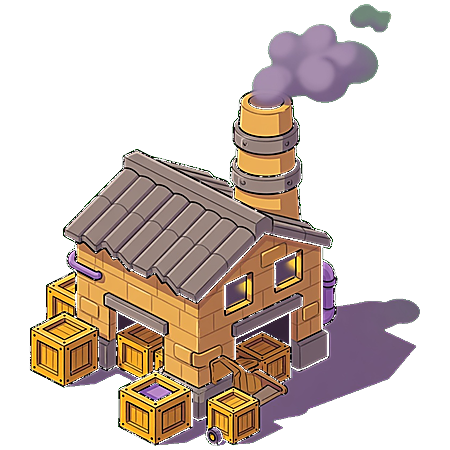
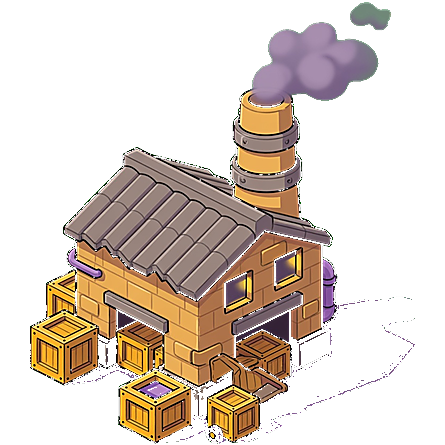
Land byer på hex-kortet: fjern platform + blød skygge
Fjerner lilla/grå diorama-platform i place-sprites, planter med sink
og diskret kontakt-skygge på græs i stedet for flyvende grøn tallerken.
Cache-bump v7.

diff --git a/js/worlddraw.js b/js/worlddraw.js
@@ -172,54 +172,53 @@ function drawFarmFields(ctx, d, dpr) {
 }
 
 /**
- * Place hub planted on ground (not floating).
- * Place-sprites er bottom-aligned i PNG; vi planter bunden i groundY + lille sink.
+ * Place hub planted on hex terrain (not floating diorama).
+ * Sprites uden indbygget platform; blød kontakt-skygge + sink i jorden.
  */
 export function drawPlaceHub(ctx, d, dpr, helpers) {
   const { lightenHex, drawSilhouette } = helpers;
   const type = d.type || 'town';
   const sprite = getPlaceSprite(type, d.spriteKey || null);
-  // Kompakt størrelse – store isometriske sprites “svæver” hvis de er for store
-  const size = d.r * 1.85;
+  // Lidt mindre end før – isometrisk hus på top-down hex
+  const size = d.r * 1.72;
   const connected = d._connected;
-  // Jordkontakt = hub-centrum (veje snapper hertil)
   const groundY = d.y;
   const gc = d.color || '#a8a29e';
 
-  // Solid jord-plade (tydelig base byen står på)
+  // Blød skygge der “klistrer” huset til hex-græs (ingen lilla ø-platform)
   ctx.beginPath();
-  ctx.ellipse(d.x, groundY + 1 * dpr, size * 0.48, size * 0.18, 0, 0, Math.PI * 2);
-  ctx.fillStyle = 'rgba(28, 25, 23, 0.22)';
+  ctx.ellipse(d.x + 2 * dpr, groundY + 3 * dpr, size * 0.34, size * 0.12, 0, 0, Math.PI * 2);
+  ctx.fillStyle = 'rgba(20, 18, 14, 0.28)';
   ctx.fill();
   ctx.beginPath();
-  ctx.ellipse(d.x, groundY, size * 0.4, size * 0.145, 0, 0, Math.PI * 2);
-  const sod = ctx.createRadialGradient(d.x - size * 0.08, groundY - size * 0.04, 0, d.x, groundY, size * 0.42);
-  sod.addColorStop(0, 'rgba(120, 140, 85, 0.55)');
-  sod.addColorStop(0.45, 'rgba(95, 110, 70, 0.4)');
-  sod.addColorStop(1, 'rgba(70, 80, 50, 0.05)');
+  ctx.ellipse(d.x, groundY + 1 * dpr, size * 0.28, size * 0.09, 0, 0, Math.PI * 2);
+  ctx.fillStyle = 'rgba(30, 28, 22, 0.16)';
+  ctx.fill();
+
+  // Meget diskret græs-toning (matcher hex, ikke en grøn “tallerken”)
+  ctx.beginPath();
+  ctx.ellipse(d.x, groundY, size * 0.26, size * 0.085, 0, 0, Math.PI * 2);
+  const sod = ctx.createRadialGradient(d.x, groundY, 0, d.x, groundY, size * 0.28);
+  sod.addColorStop(0, 'rgba(90, 110, 70, 0.22)');
+  sod.addColorStop(1, 'rgba(90, 110, 70, 0)');
   ctx.fillStyle = sod;
   ctx.fill();
-  // Farvet ring (stedets farve)
+
+  // Tynd farvering (stedfarve) – kun når forbundet, ellers næsten usynlig
   ctx.beginPath();
-  ctx.ellipse(d.x, groundY, size * 0.36, size * 0.12, 0, 0, Math.PI * 2);
-  ctx.strokeStyle = hexAlpha(gc, 0.45);
-  ctx.lineWidth = 2 * dpr;
+  ctx.ellipse(d.x, groundY, size * 0.24, size * 0.08, 0, 0, Math.PI * 2);
+  ctx.strokeStyle = hexAlpha(gc, connected ? 0.4 : 0.18);
+  ctx.lineWidth = 1.4 * dpr;
   ctx.stroke();
 
-  // Kontakt-skygge under sprite
-  ctx.beginPath();
-  ctx.ellipse(d.x + 3 * dpr, groundY + 4 * dpr, size * 0.36, size * 0.11, 0, 0, Math.PI * 2);
-  ctx.fillStyle = 'rgba(15, 12, 10, 0.3)';
-  ctx.fill();
-
   if (sprite && sprite.complete && sprite.naturalWidth > 0) {
-    // Sprites er bottom-aligned: plant bund i jorden med lille sink (ingen luft under)
     const nw = sprite.naturalWidth || size;
     const nh = sprite.naturalHeight || size;
     const aspect = nw / Math.max(1, nh);
     const drawH = size;
     const drawW = drawH * aspect;
-    const sink = drawH * 0.08; // 8% ned i pladen = “står i jorden”
+    // Sink: husets “fødder” graver lidt ned i skyggen
+    const sink = drawH * 0.1;
     const dx = d.x - drawW / 2;
     const dy = groundY - drawH + sink;
     ctx.drawImage(sprite, dx, dy, drawW, drawH);
@@ -231,25 +230,24 @@ export function drawPlaceHub(ctx, d, dpr, helpers) {
     drawSilhouette(ctx, d, type);
   }
 
-  // Hub pin – lille, foran basen (ikke midt i huset)
+  // Lille hub-prik ved jorden (foran hus)
   ctx.beginPath();
-  ctx.arc(d.x, groundY + 1 * dpr, 3.5 * dpr, 0, Math.PI * 2);
-  ctx.fillStyle = 'rgba(251, 191, 36, 0.95)';
+  ctx.arc(d.x, groundY + 0.5 * dpr, 3 * dpr, 0, Math.PI * 2);
+  ctx.fillStyle = 'rgba(251, 191, 36, 0.92)';
   ctx.fill();
-  ctx.strokeStyle = 'rgba(28,25,23,0.4)';
+  ctx.strokeStyle = 'rgba(28,25,23,0.35)';
   ctx.lineWidth = 1 * dpr;
   ctx.stroke();
 
-  // Connected ring
   if (connected) {
     ctx.beginPath();
-    ctx.ellipse(d.x, groundY, size * 0.38, size * 0.13, 0, 0, Math.PI * 2);
-    ctx.strokeStyle = 'rgba(16, 185, 129, 0.55)';
-    ctx.lineWidth = 1.8 * dpr;
+    ctx.ellipse(d.x, groundY, size * 0.3, size * 0.1, 0, 0, Math.PI * 2);
+    ctx.strokeStyle = 'rgba(16, 185, 129, 0.45)';
+    ctx.lineWidth = 1.5 * dpr;
     ctx.stroke();
   }
 
-  // Label card under jorden/base
+  // Label under hus
   const icon = d.icon || '';
   const typeLabel = d.typeLabel || '';
   ctx.font = `bold ${Math.max(10, 11.5 * dpr)}px system-ui, sans-serif`;
@@ -261,9 +259,9 @@ export function drawPlaceHub(ctx, d, dpr, helpers) {
   const bw = Math.max(tw, tw2) + padX * 2 + 4 * dpr;
   const bh = 28 * dpr;
   const bx = d.x - bw / 2;
-  const by = groundY + 12 * dpr;
+  const by = groundY + 11 * dpr;
 
-  ctx.fillStyle = 'rgba(15,12,10,0.18)';
+  ctx.fillStyle = 'rgba(15,12,10,0.16)';
   roundRect(ctx, bx + 1.5 * dpr, by + 2 * dpr, bw, bh, 8 * dpr);
   ctx.fill();
   ctx.fillStyle = 'rgba(255,255,255,0.94)';

diff --git a/sw.js b/sw.js
@@ -1,5 +1,5 @@
 /* Flowtown service worker – offline cache for core shell */
-const CACHE = 'flowtown-v6-grounded';
+const CACHE = 'flowtown-v7-no-float';
 const PRECACHE = [
   './',
   './index.html',

diff --git a/AGENTS.md b/AGENTS.md
@@ -82,6 +82,7 @@ Distrikter (ca.):
 | 2026-08-04 | Vej under byer; ingen vej fra havn | Push stroke ud af hub; vand-carve + bugt længere fra havn |
 | 2026-08-04 | Byer så “flyvende” ud | Sprite plantet på jord; alpha-crop padding; skygge under base |
 | 2026-08-04 | Byer fløj stadig (padding/cache) | Tight-crop PNG bottom-align; sink i jordplade; SW cache-bump |
+| 2026-08-04 | Byer fløj pga. isometrisk platform | Fjern lilla pad i sprites; blød skygge på hex; SW v7 |
 
 Når du retter en bruger-rapporteret bug: **tilføj en række** i tabellen ovenfor.
 
